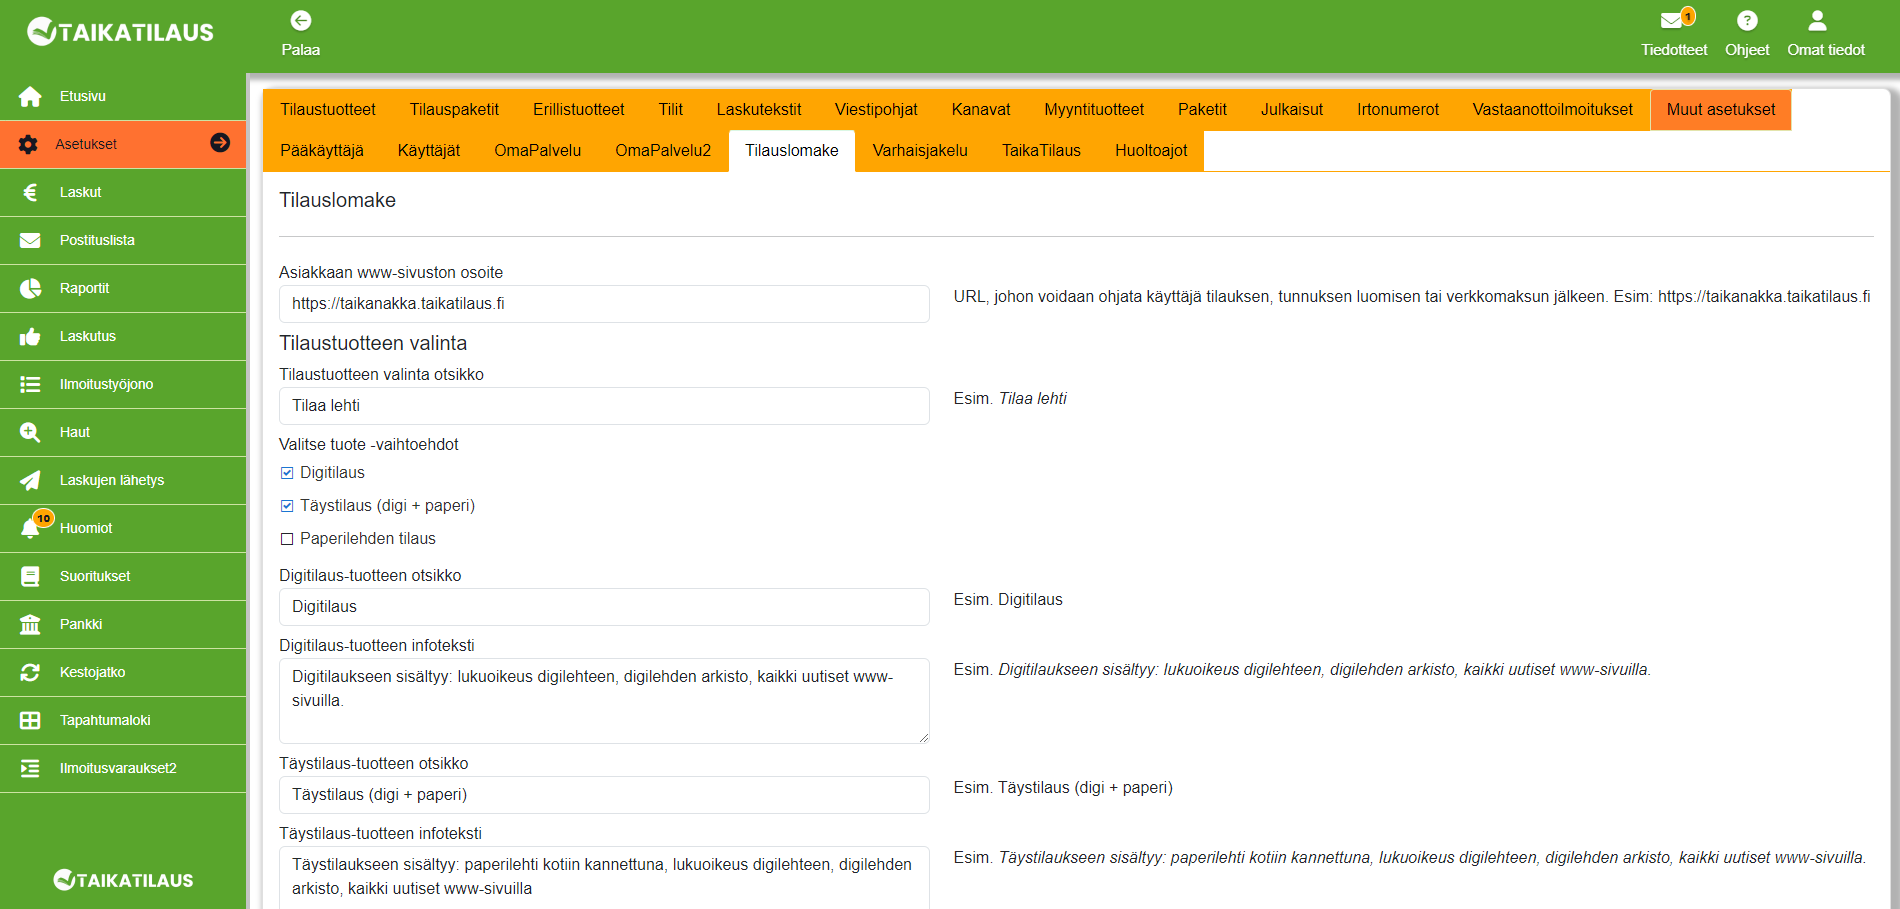
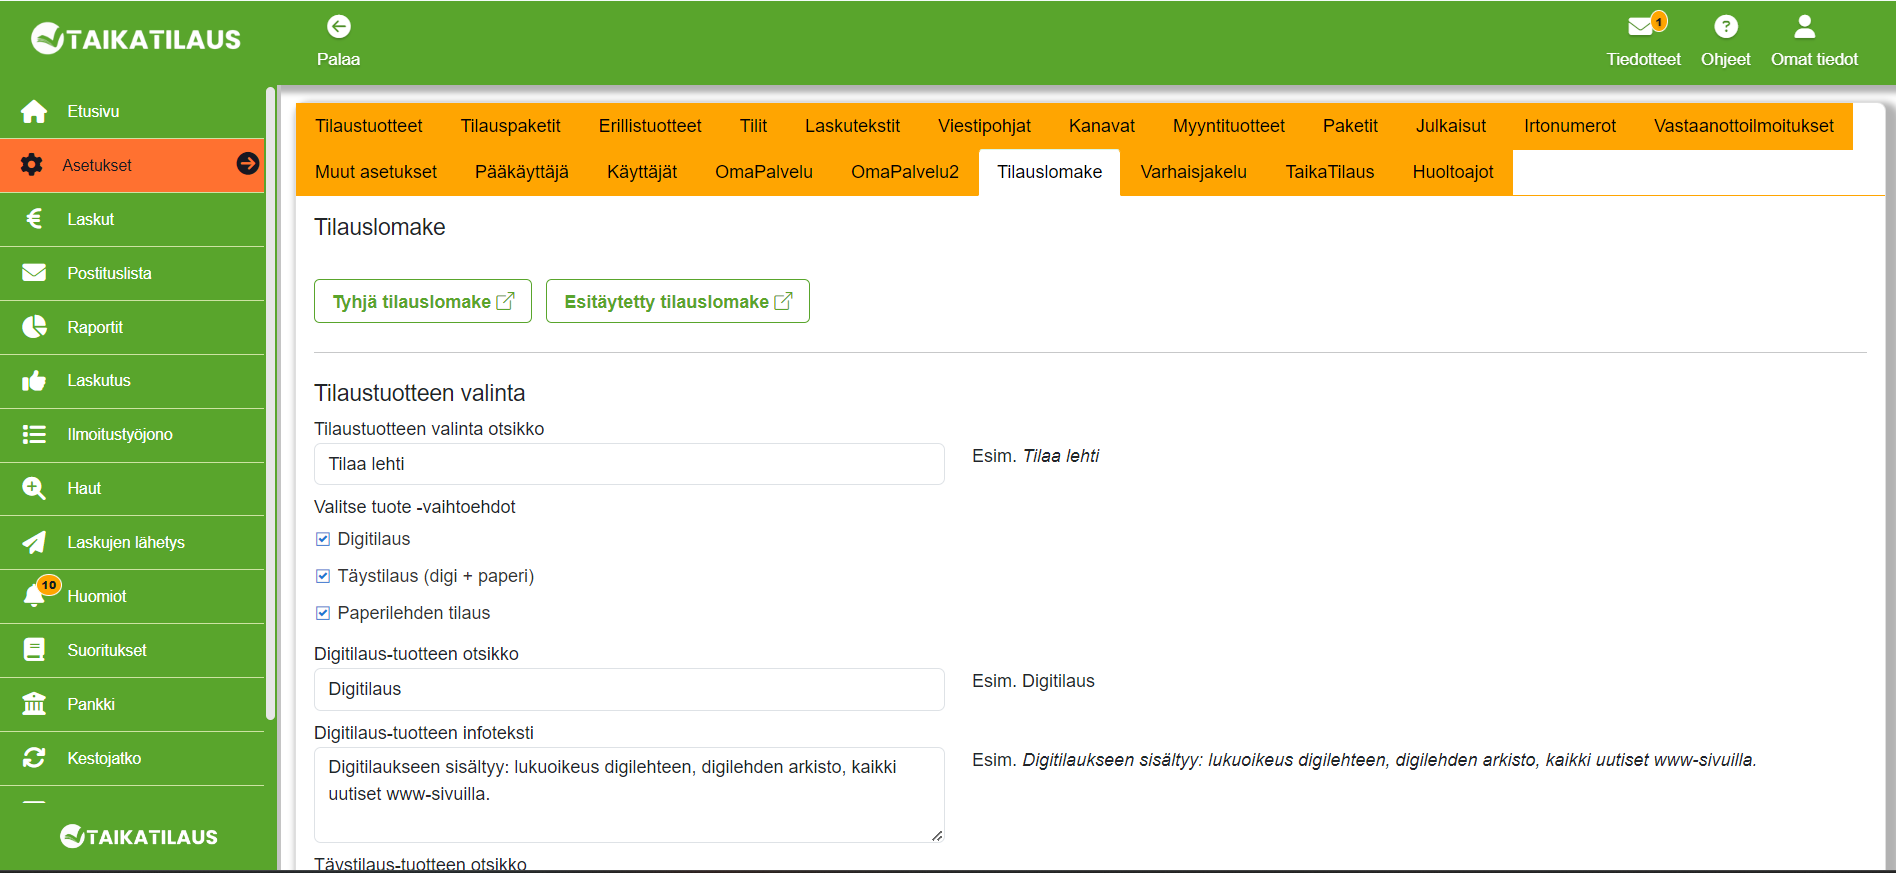
tilauslomake päivitys

diff --git a/docs/ohjeet/asetukset.md b/docs/ohjeet/asetukset.md
@@ -718,7 +718,7 @@ Voit asettaa OmaPalvelun eri toiminnoille otsikon ja infotekstin. Asiakaspalvelu
 
 Tilauslomake-välilehdellä voit määrittää tilauslomakkeen asetukset. Tilauslomakkeen kautta asiakkaat voivat tilata lehden. 
 
-Voit asettaa osoitteen, johon asiakas ohjataan tilauksen tekemisen jälkeen, esim. hs.fi.
+Tilauslomake-asetuksista voit **esikatsella tyhjää tai esitäytettyä ilmoituslomaketta**. Esikatselusta voit testata ilmoituslomaketta ja nähdä, miten muutokset vaikuttavat lomakkeeseen.
 
 ### Tilaustuotteen valinta
 
@@ -814,6 +814,14 @@ Tietosuojaselosteen otsikko ja osoite asetetaan viimeisiin kenttiin.
 
 ![Tilauslomake](/img/ohjeet/tilauslomake14.png)
 *Maksutapa-asetukset koskevat tätä kohtaa lomakkeesta.*
+
+### Tilausvahvistus ja uudelleenohjaus
+
+**Viestipohjat**-painikkeesta sinut ohjataan Viestipohjat-välilehteen, josta voit muokata tilausvahvistuksen tekstejä.
+
+Voit asettaa osoitteen, johon asiakas ohjataan tilauksen tekemisen jälkeen, esim. hs.fi.
+
+![Tilauslomake](/img/ohjeet/tilauslomake16.png)
 
 ## Varhaisjakelu
 
